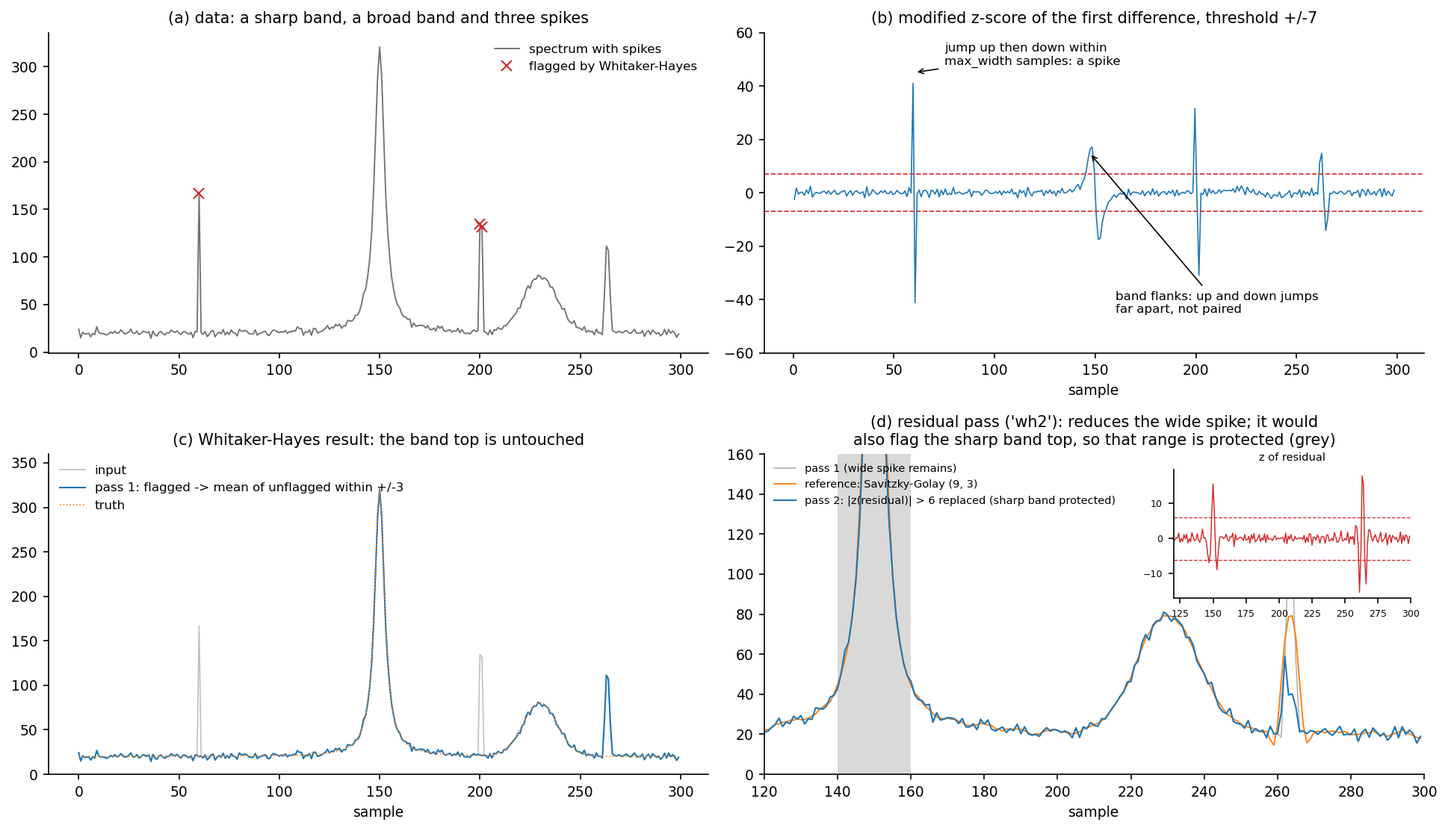
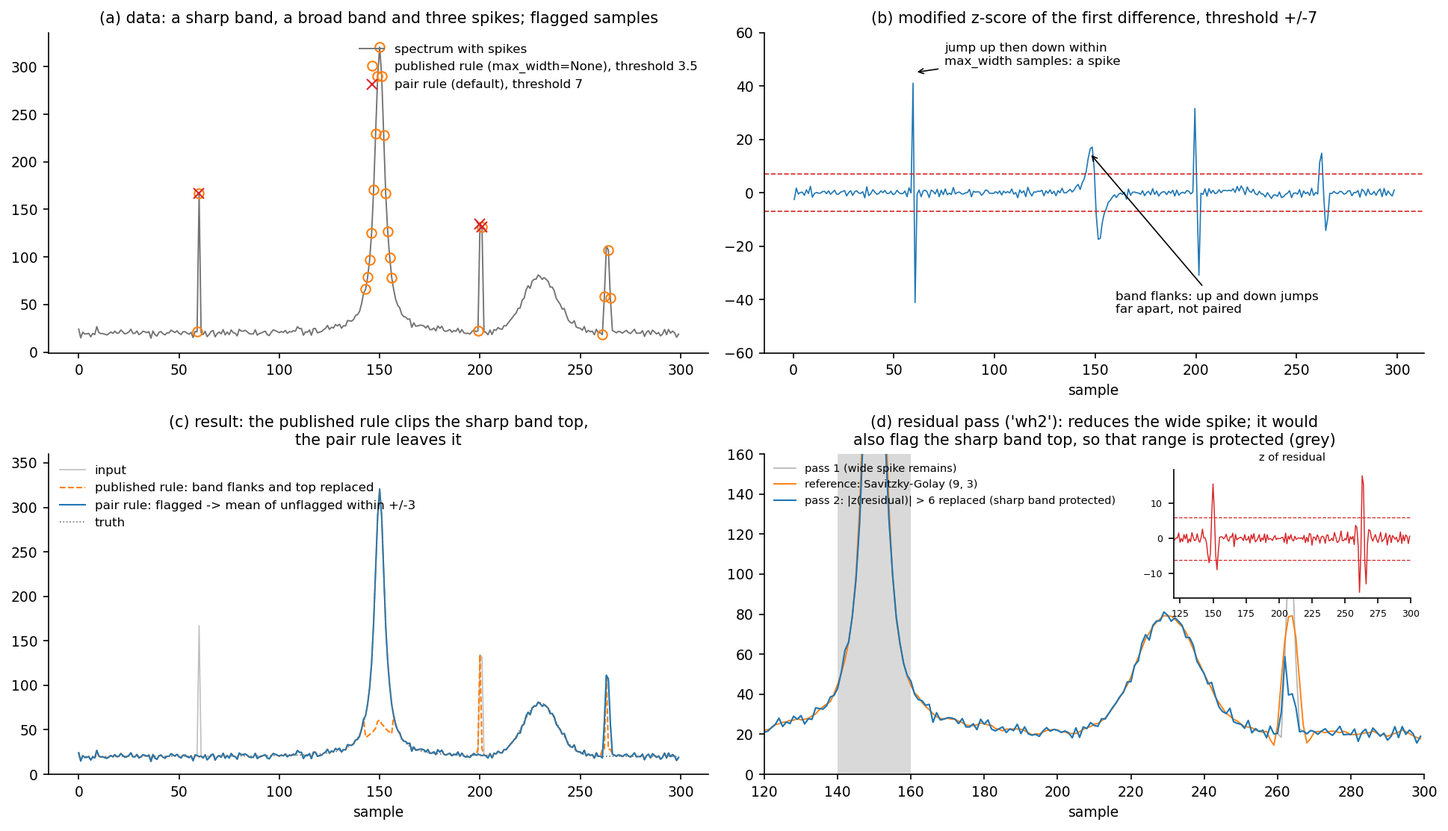
Whitaker-Hayes: published detection rule as an option; Nanobase reader: original orientation by default
- wh_max_width=None (wh1_max_width for pass 1 of wh2, max_width=None in the functions) flags
  sample k of every difference with |z_k| > threshold, the published rule of the original code,
  with the neighbour-mean replacement from unflagged samples; the pair rule stays the default
- read_nanobase_csv defaults to swap_xy=True, negate_x=True as the original converter
- change table: the detection change is a design change; tests, despike figure and docs updated

diff --git a/src/hyper_spectral_process/preprocess/despike.py b/src/hyper_spectral_process/preprocess/despike.py
@@ -7,14 +7,16 @@ Three methods (pipeline ``despike.mode``):
 * ``"wh"`` (:func:`despike_whitaker_hayes`): Whitaker-Hayes detection on the
   modified z-score of the first difference (Whitaker & Hayes, Chemometr.
   Intell. Lab. Syst. 179, 82 (2018)); flagged samples are replaced by the
-  mean of their unflagged neighbours.
+  mean of their unflagged neighbours. By default a spike must be an isolated
+  pair of opposite jumps (``max_width``); ``max_width=None`` uses the
+  published rule (every large difference).
 * ``"wh2"`` (:func:`despike_two_pass`): ``"wh"`` followed by a residual
   z-score pass against a Savitzky-Golay reference (:func:`despike_residual`),
   which catches remnants of wide spikes.
 """
 from __future__ import annotations
 
-from typing import Sequence
+from typing import Optional, Sequence
 
 import numpy as np
 from scipy.signal import savgol_filter
@@ -55,11 +57,19 @@ def despike_simple(ssm: StandardSpectrumMap, threshold: float) -> StandardSpectr
 
 
 # ---------------------------------------------------------- Whitaker-Hayes
-def whitaker_hayes_mask(spectra: np.ndarray, threshold: float = 7.0, max_width: int = 2) -> np.ndarray:
+def whitaker_hayes_mask(spectra: np.ndarray, threshold: float = 7.0, max_width: Optional[int] = 2) -> np.ndarray:
     """Spike mask ``(N, M)`` from the Whitaker-Hayes test.
 
     The first differences ``d_k = y[k+1] - y[k]`` of every spectrum are scored
-    with the modified z-score. A spike is
+    with the modified z-score.
+
+    ``max_width=None`` is the published rule (Whitaker & Hayes 2018, and the
+    original code): sample ``k`` is flagged for every difference with
+    ``|z_k| > threshold``. Every large difference counts, so the flanks and
+    the top of a band sampled by few points are flagged too (more so at low
+    thresholds such as the original default 3.5).
+
+    With an integer ``max_width`` (the default) a spike is
 
     * a jump ``i`` with ``|z_i| > threshold``,
     * followed within ``max_width`` samples by a jump ``j`` of the opposite
@@ -76,13 +86,16 @@ def whitaker_hayes_mask(spectra: np.ndarray, threshold: float = 7.0, max_width: 
     first or last sample are not detected (the residual pass of ``"wh2"``
     catches wide spikes).
     """
-    if int(max_width) != max_width or max_width < 1:
-        raise ValueError(f"max_width must be a positive integer; got {max_width}")
+    if max_width is not None and (int(max_width) != max_width or max_width < 1):
+        raise ValueError(f"max_width must be None or a positive integer; got {max_width}")
     if not threshold > 0:
         raise ValueError(f"threshold must be positive; got {threshold}")
     spectra = np.atleast_2d(spectra)
     z = modified_zscore(np.diff(spectra, axis=1))
     mask = np.zeros(spectra.shape, dtype=bool)
+    if max_width is None:
+        mask[:, :-1] = np.abs(z) > threshold
+        return mask
     n_diff = z.shape[1]
     for r, i in zip(*np.nonzero(np.abs(z) > threshold)):
         if i > 0 and abs(z[r, i - 1]) > threshold:
@@ -115,8 +128,9 @@ def _replace_by_neighbour_mean(y: np.ndarray, flagged: np.ndarray, m: int,
     return out
 
 
-def despike_whitaker_hayes(ssm: StandardSpectrumMap, threshold: float = 7.0, m: int = 3, *, max_width: int = 2,
-                           protect: Sequence[tuple[float, float]] = ()) -> StandardSpectrumMap:
+def despike_whitaker_hayes(ssm: StandardSpectrumMap, threshold: float = 7.0, m: int = 3, *,
+                           max_width: Optional[int] = 2, protect: Sequence[tuple[float, float]] = ()
+                           ) -> StandardSpectrumMap:
     """Whitaker-Hayes despiking.
 
     Parameters
@@ -124,7 +138,8 @@ def despike_whitaker_hayes(ssm: StandardSpectrumMap, threshold: float = 7.0, m: 
     threshold : modified z-score of the first difference above which a jump counts.
     m : flagged samples are replaced by the mean of the unflagged samples
         within ``+/- m`` samples.
-    max_width : widest spike (in samples) that is detected; see :func:`whitaker_hayes_mask`.
+    max_width : widest spike (in samples) that is detected by the pair rule, or
+        ``None`` for the published rule; see :func:`whitaker_hayes_mask`.
     protect : axis ranges ``(lo, hi)`` that are never modified (for known
         strong, narrow bands whose top would look like a spike). Empty by default.
     """
@@ -173,7 +188,8 @@ def despike_residual(ssm: StandardSpectrumMap, ref_window: int = 9, ref_polyorde
     return ssm.replace(spectra=out)
 
 
-def despike_two_pass(ssm: StandardSpectrumMap, *, wh_threshold: float = 7.0, wh_m: int = 3, wh_max_width: int = 2,
+def despike_two_pass(ssm: StandardSpectrumMap, *, wh_threshold: float = 7.0, wh_m: int = 3,
+                     wh_max_width: Optional[int] = 2,
                      ref_window: int = 9, ref_polyorder: int = 3, resid_threshold: float = 6.0, resid_m: int = 2,
                      resid_replace: str = "ref", protect: Sequence[tuple[float, float]] = ()
                      ) -> tuple[StandardSpectrumMap, StandardSpectrumMap, np.ndarray]:

diff --git a/docs/figures/make_despike.py b/docs/figures/make_despike.py
@@ -17,6 +17,8 @@ class AppConfig:
     dpi: int = 150
     threshold: float = 7.0
     m: int = 3
+    published_threshold: float = 3.5      # original pipeline default
+    published_m: int = 8
     seed: int = 3
 
 
@@ -32,6 +34,9 @@ def main(cfg: AppConfig) -> None:
     z = modified_zscore(np.diff(y)[None, :])[0]
     mask = whitaker_hayes_mask(y[None, :], cfg.threshold, 2)[0]
     wh = despike_whitaker_hayes(m, cfg.threshold, cfg.m).spectra[0]
+    # the published rule (max_width=None) with the original pipeline defaults (threshold 3.5, m 8)
+    mask_pub = whitaker_hayes_mask(y[None, :], cfg.published_threshold, None)[0]
+    wh_pub = despike_whitaker_hayes(m, cfg.published_threshold, cfg.published_m, max_width=None).spectra[0]
     ref = residual_reference(m.replace(spectra=wh[None, :]), 9, 3)[0]
     res = despike_residual(m.replace(spectra=wh[None, :]), 9, 3, 6.0, m=3, replace="mean",
                            protect=[(140.0, 160.0)]).spectra[0]
@@ -40,9 +45,11 @@ def main(cfg: AppConfig) -> None:
     fig, axes = plt.subplots(2, 2, figsize=(13, 7.5))
     ax = axes[0, 0]
     ax.plot(x, y, color=GREY, lw=0.9, label="spectrum with spikes")
-    ax.plot(x[mask], y[mask], "x", color=RED, ms=7, label="flagged by Whitaker-Hayes")
-    ax.set_title("(a) data: a sharp band, a broad band and three spikes")
-    ax.legend()
+    ax.plot(x[mask_pub], y[mask_pub], "o", mfc="none", color=ORANGE, ms=6,
+            label=f"published rule (max_width=None), threshold {cfg.published_threshold:g}")
+    ax.plot(x[mask], y[mask], "x", color=RED, ms=7, label=f"pair rule (default), threshold {cfg.threshold:g}")
+    ax.set_title("(a) data: a sharp band, a broad band and three spikes; flagged samples")
+    ax.legend(loc="upper right")
     ax = axes[0, 1]
     ax.plot(x[:-1] + 0.5, z, color=BLUE, lw=0.8)
     for s in (1, -1):
@@ -56,10 +63,11 @@ def main(cfg: AppConfig) -> None:
     ax.set_xlabel("sample")
     ax = axes[1, 0]
     ax.plot(x, y, color="0.75", lw=0.8, label="input")
-    ax.plot(x, wh, color=BLUE, lw=1.0, label=f"pass 1: flagged -> mean of unflagged within +/-{cfg.m}")
-    ax.plot(x, clean, color=ORANGE, lw=0.8, ls=":", label="truth")
+    ax.plot(x, wh_pub, color=ORANGE, lw=1.0, ls="--", label="published rule: band flanks and top replaced")
+    ax.plot(x, wh, color=BLUE, lw=1.0, label=f"pair rule: flagged -> mean of unflagged within +/-{cfg.m}")
+    ax.plot(x, clean, color=GREY, lw=0.8, ls=":", label="truth")
     ax.set_ylim(0, 360)
-    ax.set_title("(c) Whitaker-Hayes result: the band top is untouched")
+    ax.set_title("(c) result: the published rule clips the sharp band top,\nthe pair rule leaves it")
     ax.legend(loc="upper left")
     ax = axes[1, 1]
     ax.plot(x, wh, color="0.7", lw=0.8, label="pass 1 (wide spike remains)")

diff --git a/tests/test_preprocess.py b/tests/test_preprocess.py
@@ -62,6 +62,28 @@ def test_whitaker_hayes_flags_spike_not_band_flank():
     assert np.all(out[~mask] == y[~mask])
 
 
+def test_whitaker_hayes_published_rule_option():
+    from hyper_spectral_process.preprocess._common import modified_zscore
+    x = np.arange(300.0)
+    y = 20 + 300 / (1 + 4 * ((x - 150) / 6.0) ** 2) + np.random.default_rng(3).normal(0, 2.0, x.size)
+    y[60] += 150
+    y[200:202] += 110
+    thr = 3.5                                         # the original pipeline default
+    z = modified_zscore(np.diff(y)[None, :])[0]
+    original = np.flatnonzero(np.abs(z) > thr)        # original rule: sample i of every large difference i
+    mask = whitaker_hayes_mask(y[None, :], threshold=thr, max_width=None)[0]
+    assert np.flatnonzero(mask).tolist() == original.tolist()
+    assert mask[145:156].any() and not whitaker_hayes_mask(y[None, :], thr, max_width=2)[0][145:156].any()
+    out = despike_whitaker_hayes(one(y, x), thr, 8, max_width=None).spectra[0]
+    for k in original:                                # replaced by the mean of the unflagged samples within +/-8
+        lo, hi = max(0, k - 8), min(y.size, k + 9)
+        assert out[k] == pytest.approx(y[lo:hi][~mask[lo:hi]].mean())
+    res = run_pipeline(one(y, x), PreprocessConfig(stage_order=("despike",), derivative=DerivativeParams(orders=()),
+                                                  despike=DespikeParams(mode="wh2", wh1_threshold=thr,
+                                                                        wh1_max_width=None)))
+    np.testing.assert_allclose(res.stages["spike1"].spectra[0], out)
+
+
 def test_whitaker_hayes_keeps_sharp_strong_band_top():
     x = np.arange(300.0)
     y = 20 + 300 / (1 + 4 * ((x - 150) / 6.0) ** 2) + np.random.default_rng(3).normal(0, 2.0, x.size)

diff --git a/src/hyper_spectral_process/io/nanobase.py b/src/hyper_spectral_process/io/nanobase.py
@@ -17,7 +17,7 @@ _INDEX_COLUMNS = ("Z", "XINDEX", "YINDEX", "ZINDEX")
 
 
 def read_nanobase_csv(path: str | Path, unit: str = "cm^-1", *, x_column: str = "X", y_column: str = "Y",
-                      swap_xy: bool = False, negate_x: bool = False, negate_y: bool = False) -> StandardSpectrumMap:
+                      swap_xy: bool = True, negate_x: bool = True, negate_y: bool = False) -> StandardSpectrumMap:
     """Read a Nanobase mapping CSV.
 
     Parameters
@@ -26,10 +26,10 @@ def read_nanobase_csv(path: str | Path, unit: str = "cm^-1", *, x_column: str = 
     unit : axis unit stored in the returned map.
     x_column, y_column : header names of the stage coordinates.
     swap_xy, negate_x, negate_y : orientation corrections applied to the
-        coordinates after reading (swap first, then negate). The default
-        returns the coordinates exactly as stored. The original converter
-        applied ``swap_xy=True, negate_x=True`` for the instrument it was
-        written for.
+        coordinates after reading (swap first, then negate). The defaults
+        (``swap_xy=True, negate_x=True``) are those of the original converter,
+        which makes images of its instrument appear in the right orientation;
+        ``swap_xy=False, negate_x=False`` returns the coordinates as stored.
 
     Columns whose header parses as a number form the spectral axis. Every
     cell must be numeric; empty cells raise ``ValueError``.

diff --git a/tests/test_io.py b/tests/test_io.py
@@ -73,11 +73,11 @@ def test_nanobase_csv(tmp_path):
     text = ("FILETYPE=RAMAN SPECTRUM (MAPPING)\nAXISDATA=\nX,Y,Z,XINDEX,YINDEX,ZINDEX,300.0,301.0,302.0\n"
             "-1,2,0,0,0,0,5,6,7\n1,2,0,1,0,0,8,9,10\n")
     (tmp_path / "n.csv").write_text(text)
-    m = read_nanobase_csv(tmp_path / "n.csv")
+    m = read_nanobase_csv(tmp_path / "n.csv")              # default: the original orientation (swap, negate x)
     np.testing.assert_array_equal(m.axis, [300, 301, 302])
-    np.testing.assert_array_equal(m.xy, [[-1, 2], [1, 2]])
-    m2 = read_nanobase_csv(tmp_path / "n.csv", swap_xy=True, negate_x=True)
-    np.testing.assert_array_equal(m2.xy, [[-2, -1], [-2, 1]])
+    np.testing.assert_array_equal(m.xy, [[-2, -1], [-2, 1]])
+    raw = read_nanobase_csv(tmp_path / "n.csv", swap_xy=False, negate_x=False)
+    np.testing.assert_array_equal(raw.xy, [[-1, 2], [1, 2]])
 
 
 def test_ntmdt(tmp_path):

diff --git a/src/hyper_spectral_process/preprocess/config.py b/src/hyper_spectral_process/preprocess/config.py
@@ -34,9 +34,10 @@ class DespikeParams:
     sf_threshold: float = 40.0          # simple: jump threshold in data units
     wh_threshold: float = 3.5           # wh: modified z-score threshold
     wh_m: int = 8                       # wh: neighbour half-width for the replacement
-    wh_max_width: int = 2               # wh/wh2: widest detected spike (samples)
+    wh_max_width: Optional[int] = 2     # wh: widest spike of the pair rule; None = published rule
     wh1_threshold: float = 3.5          # wh2 pass 1
     wh1_m: int = 8
+    wh1_max_width: Optional[int] = 2    # wh2 pass 1: as wh_max_width
     resid_ref_window: int = 7           # wh2 pass 2: Savitzky-Golay reference
     resid_ref_polyorder: int = 3
     resid_threshold: float = 5.0

diff --git a/src/hyper_spectral_process/preprocess/pipeline.py b/src/hyper_spectral_process/preprocess/pipeline.py
@@ -132,7 +132,7 @@ def run_pipeline(ssm: StandardSpectrumMap, cfg: PreprocessConfig, *, splits: Opt
                 keep("spike", cur)
             else:
                 p1, cur, res.despike_reference = despike_two_pass(
-                    cur, wh_threshold=d.wh1_threshold, wh_m=d.wh1_m, wh_max_width=d.wh_max_width,
+                    cur, wh_threshold=d.wh1_threshold, wh_m=d.wh1_m, wh_max_width=d.wh1_max_width,
                     ref_window=d.resid_ref_window, ref_polyorder=d.resid_ref_polyorder,
                     resid_threshold=d.resid_threshold, resid_m=d.resid_m, resid_replace=d.resid_replace,
                     protect=d.protect)

diff --git a/examples/01_convert_instrument_files.py b/examples/01_convert_instrument_files.py
@@ -30,6 +30,7 @@ class AppConfig:
 
 
 CONFIG = AppConfig()
+# read_nanobase_csv applies the original orientation by default (x and y swapped, then x negated)
 READERS = {"horiba": read_horiba_txt, "nanobase": read_nanobase_csv, "ntmdt": read_ntmdt_txt}
 
 

diff --git a/docs/api.md b/docs/api.md
@@ -28,7 +28,7 @@ HORIBA LabSpec map exports (wide text table).
 
 Nanobase mapping CSV exports.
 
-- `read_nanobase_csv(path: str | Path, unit: str = 'cm^-1', *, x_column: str = 'X', y_column: str = 'Y', swap_xy: bool = False, negate_x: bool = False, negate_y: bool = False) -> StandardSpectrumMap`: Read a Nanobase mapping CSV.
+- `read_nanobase_csv(path: str | Path, unit: str = 'cm^-1', *, x_column: str = 'X', y_column: str = 'Y', swap_xy: bool = True, negate_x: bool = True, negate_y: bool = False) -> StandardSpectrumMap`: Read a Nanobase mapping CSV.
 
 ## `hyper_spectral_process.io.ntmdt`
 
@@ -59,7 +59,7 @@ Conversions between wavelength, photon energy and Raman shift axes.
 Configuration of the stage-ordered preprocessing pipeline and its validation.
 
 - **class `RoiParams(xmin: Optional[float] = 250.0, xmax: Optional[float] = 3200.0, round_decimals: Optional[int] = None) -> None`**: ``roi``: keep ``xmin <= axis <= xmax`` (:func:`~.roi.crop_roi`).
-- **class `DespikeParams(mode: str = 'none', sf_threshold: float = 40.0, wh_threshold: float = 3.5, wh_m: int = 8, wh_max_width: int = 2, wh1_threshold: float = 3.5, wh1_m: int = 8, resid_ref_window: int = 7, resid_ref_polyorder: int = 3, resid_threshold: float = 5.0, resid_m: int = 2, resid_replace: str = 'ref', protect: tuple = ()) -> None`**: ``despike`` (:mod:`.despike`). ``mode`` selects which group of parameters is used.
+- **class `DespikeParams(mode: str = 'none', sf_threshold: float = 40.0, wh_threshold: float = 3.5, wh_m: int = 8, wh_max_width: Optional[int] = 2, wh1_threshold: float = 3.5, wh1_m: int = 8, wh1_max_width: Optional[int] = 2, resid_ref_window: int = 7, resid_ref_polyorder: int = 3, resid_threshold: float = 5.0, resid_m: int = 2, resid_replace: str = 'ref', protect: tuple = ()) -> None`**: ``despike`` (:mod:`.despike`). ``mode`` selects which group of parameters is used.
 - **class `SmoothParams(window: int = 7, polyorder: int = 3, mode: str = 'interp', strength: int = 2) -> None`**: ``smooth`` / ``smooth2nd`` (:func:`~.smooth.smooth_savgol`).
 - **class `NormalizeParams(mode: str = 'instance', round_decimals: Optional[int] = 3, peak_window: Optional[tuple] = None, peak_refine: int = 2) -> None`**: ``normalize`` (:func:`~.normalize.normalize`).
 - **class `BaselineParams(mode: str = 'none', minline_window: int = 500, minline_step: int = 150, ps_window_min: int = 121, ps_window_max: int = 1111, ps_polyorder: int = 0, protect_peaks: Optional[tuple] = None, protect_half_width: float = 15.0, clip_negative: bool = False, anchors: tuple = (), anchor_degree: Optional[int] = 1, anchor_reference: Optional[tuple] = None) -> None`**: ``baseline`` (:func:`~.baseline.subtract_baseline`).
@@ -70,7 +70,7 @@ Configuration of the stage-ordered preprocessing pipeline and its validation.
 - **class `AugmentationParams(splits: tuple = ('train', 'valid', 'test'), max_new_per_split: Mapping[str, int] = <factory>, mixup_min_sources: int = 2, mixup_max_sources: int = 4, mixup_alpha_range: tuple = (0.35, 0.65), noise_mode: str = 'white', lowpass_sigma_points: float = 4.0, lowpass_kernel_radius: Optional[int] = None, lowpass_pad_mode: str = 'reflect', noise_std: float = 0.005) -> None`**: ``augmentation``: mixup and noise per split (:func:`~.augmentation.mixup`).
 - **class `QAParams(enable: bool = True, trace_enable: bool = True, trace_mode: str = 'random', trace_n: int = 9, trace_seed: int = 42, trace_idxs: Optional[tuple] = None, aug_mixup_n: int = 9, tsne_enable: bool = True, tsne_stage_keys: Optional[tuple] = None, tsne_perplexity: tuple = (5, 10, 20), tsne_max_iter: int = 1000, tsne_random_state: int = 123, tsne_n_jobs: int = 1, tsne_thread_limit: int = 1, tsne_max_cols: int = 5, tsne_point_size: float = 7.0, tsne_alpha: float = 0.62, dpi: int = 150) -> None`**: Quality-assurance images written by :func:`~.runner.run_preprocess`.
 - **class `OutputParams(allow_existing_run_dir: bool = False, save_processed_npz: bool = True, include_source_variant: bool = False, save_noaug_reference_npz: bool = False) -> None`**: What :func:`~.runner.run_preprocess` writes.
-- **class `PreprocessConfig(stage_order: tuple, roi: RoiParams = RoiParams(xmin=250.0, xmax=3200.0, round_decimals=None), despike: DespikeParams = DespikeParams(mode='none', sf_threshold=40.0, wh_threshold=3.5, wh_m=8, wh_max_width=2, wh1_threshold=3.5, wh1_m=8, resid_ref_window=7, resid_ref_polyorder=3, resid_threshold=5.0, resid_m=2, resid_replace='ref', protect=()), smooth: SmoothParams = SmoothParams(window=7, polyorder=3, mode='interp', strength=2), smooth2nd: SmoothParams = SmoothParams(window=5, polyorder=3, mode='interp', strength=1), normalize: NormalizeParams = NormalizeParams(mode='instance', round_decimals=3, peak_window=None, peak_refine=2), baseline: BaselineParams = BaselineParams(mode='none', minline_window=500, minline_step=150, ps_window_min=121, ps_window_max=1111, ps_polyorder=0, protect_peaks=None, protect_half_width=15.0, clip_negative=False, anchors=(), anchor_degree=1, anchor_reference=None), interp: InterpParams = InterpParams(step=2.0, round_decimals=None), derivative: DerivativeParams = DerivativeParams(orders=(1, 2), window=11, polyorder=3, use_axis_delta=True, delta_override=1.0, pre_smooth=SmoothBlock(enable=False, strength=0, window=11, polyorder=3), post_smooth={1: SmoothBlock(enable=True, strength=2, window=13, polyorder=3), 2: SmoothBlock(enable=True, strength=2, window=13, polyorder=3)}, post_smooth_default=SmoothBlock(enable=False, strength=0, window=9, polyorder=2)), split: SplitParams = SplitParams(enable=False, train=0.6, valid=0.2, test=0.2, file_tags={'train': trainset, 'test': testset, 'valid': valset}), augmentation: AugmentationParams = AugmentationParams(splits=('train', 'valid', 'test'), max_new_per_split={'train': 300, 'test': 100, 'valid': 100, 'all': 500}, mixup_min_sources=2, mixup_max_sources=4, mixup_alpha_range=(0.35, 0.65), noise_mode='white', lowpass_sigma_points=4.0, lowpass_kernel_radius=None, lowpass_pad_mode='reflect', noise_std=0.005), qa: QAParams = QAParams(enable=True, trace_enable=True, trace_mode='random', trace_n=9, trace_seed=42, trace_idxs=None, aug_mixup_n=9, tsne_enable=True, tsne_stage_keys=None, tsne_perplexity=(5, 10, 20), tsne_max_iter=1000, tsne_random_state=123, tsne_n_jobs=1, tsne_thread_limit=1, tsne_max_cols=5, tsne_point_size=7.0, tsne_alpha=0.62, dpi=150), output: OutputParams = OutputParams(allow_existing_run_dir=False, save_processed_npz=True, include_source_variant=False, save_noaug_reference_npz=False), random_seed: int = 123) -> None`**: Complete preprocessing configuration.
+- **class `PreprocessConfig(stage_order: tuple, roi: RoiParams = RoiParams(xmin=250.0, xmax=3200.0, round_decimals=None), despike: DespikeParams = DespikeParams(mode='none', sf_threshold=40.0, wh_threshold=3.5, wh_m=8, wh_max_width=2, wh1_threshold=3.5, wh1_m=8, wh1_max_width=2, resid_ref_window=7, resid_ref_polyorder=3, resid_threshold=5.0, resid_m=2, resid_replace='ref', protect=()), smooth: SmoothParams = SmoothParams(window=7, polyorder=3, mode='interp', strength=2), smooth2nd: SmoothParams = SmoothParams(window=5, polyorder=3, mode='interp', strength=1), normalize: NormalizeParams = NormalizeParams(mode='instance', round_decimals=3, peak_window=None, peak_refine=2), baseline: BaselineParams = BaselineParams(mode='none', minline_window=500, minline_step=150, ps_window_min=121, ps_window_max=1111, ps_polyorder=0, protect_peaks=None, protect_half_width=15.0, clip_negative=False, anchors=(), anchor_degree=1, anchor_reference=None), interp: InterpParams = InterpParams(step=2.0, round_decimals=None), derivative: DerivativeParams = DerivativeParams(orders=(1, 2), window=11, polyorder=3, use_axis_delta=True, delta_override=1.0, pre_smooth=SmoothBlock(enable=False, strength=0, window=11, polyorder=3), post_smooth={1: SmoothBlock(enable=True, strength=2, window=13, polyorder=3), 2: SmoothBlock(enable=True, strength=2, window=13, polyorder=3)}, post_smooth_default=SmoothBlock(enable=False, strength=0, window=9, polyorder=2)), split: SplitParams = SplitParams(enable=False, train=0.6, valid=0.2, test=0.2, file_tags={'train': trainset, 'test': testset, 'valid': valset}), augmentation: AugmentationParams = AugmentationParams(splits=('train', 'valid', 'test'), max_new_per_split={'train': 300, 'test': 100, 'valid': 100, 'all': 500}, mixup_min_sources=2, mixup_max_sources=4, mixup_alpha_range=(0.35, 0.65), noise_mode='white', lowpass_sigma_points=4.0, lowpass_kernel_radius=None, lowpass_pad_mode='reflect', noise_std=0.005), qa: QAParams = QAParams(enable=True, trace_enable=True, trace_mode='random', trace_n=9, trace_seed=42, trace_idxs=None, aug_mixup_n=9, tsne_enable=True, tsne_stage_keys=None, tsne_perplexity=(5, 10, 20), tsne_max_iter=1000, tsne_random_state=123, tsne_n_jobs=1, tsne_thread_limit=1, tsne_max_cols=5, tsne_point_size=7.0, tsne_alpha=0.62, dpi=150), output: OutputParams = OutputParams(allow_existing_run_dir=False, save_processed_npz=True, include_source_variant=False, save_noaug_reference_npz=False), random_seed: int = 123) -> None`**: Complete preprocessing configuration.
     - `to_dict(self) -> dict`: Plain-data snapshot (for the run's ``run_config_snapshot.json``).
 - `validate_config(cfg: PreprocessConfig) -> None`: Raise ``ValueError`` for an inconsistent configuration.
 
@@ -100,11 +100,11 @@ ROI stage: keep a range of the spectral axis without resampling.
 Despike stage: remove cosmic-ray spikes.
 
 - `despike_simple(ssm: StandardSpectrumMap, threshold: float) -> StandardSpectrumMap`: Replace jumps larger than ``threshold`` (data units) by linear interpolation.
-- `whitaker_hayes_mask(spectra: np.ndarray, threshold: float = 7.0, max_width: int = 2) -> np.ndarray`: Spike mask ``(N, M)`` from the Whitaker-Hayes test.
-- `despike_whitaker_hayes(ssm: StandardSpectrumMap, threshold: float = 7.0, m: int = 3, *, max_width: int = 2, protect: Sequence[tuple[float, float]] = ()) -> StandardSpectrumMap`: Whitaker-Hayes despiking.
+- `whitaker_hayes_mask(spectra: np.ndarray, threshold: float = 7.0, max_width: Optional[int] = 2) -> np.ndarray`: Spike mask ``(N, M)`` from the Whitaker-Hayes test.
+- `despike_whitaker_hayes(ssm: StandardSpectrumMap, threshold: float = 7.0, m: int = 3, *, max_width: Optional[int] = 2, protect: Sequence[tuple[float, float]] = ()) -> StandardSpectrumMap`: Whitaker-Hayes despiking.
 - `residual_reference(ssm: StandardSpectrumMap, window: int = 9, polyorder: int = 3) -> np.ndarray`: Savitzky-Golay reference curve ``(N, M)`` of the residual despike pass.
 - `despike_residual(ssm: StandardSpectrumMap, ref_window: int = 9, ref_polyorder: int = 3, threshold: float = 6.0, m: int = 2, replace: str = 'ref', protect: Sequence[tuple[float, float]] = ()) -> StandardSpectrumMap`: Residual z-score despiking.
-- `despike_two_pass(ssm: StandardSpectrumMap, *, wh_threshold: float = 7.0, wh_m: int = 3, wh_max_width: int = 2, ref_window: int = 9, ref_polyorder: int = 3, resid_threshold: float = 6.0, resid_m: int = 2, resid_replace: str = 'ref', protect: Sequence[tuple[float, float]] = ()) -> tuple[StandardSpectrumMap, StandardSpectrumMap, np.ndarray]`: Whitaker-Hayes pass followed by the residual pass.
+- `despike_two_pass(ssm: StandardSpectrumMap, *, wh_threshold: float = 7.0, wh_m: int = 3, wh_max_width: Optional[int] = 2, ref_window: int = 9, ref_polyorder: int = 3, resid_threshold: float = 6.0, resid_m: int = 2, resid_replace: str = 'ref', protect: Sequence[tuple[float, float]] = ()) -> tuple[StandardSpectrumMap, StandardSpectrumMap, np.ndarray]`: Whitaker-Hayes pass followed by the residual pass.
 
 ## `hyper_spectral_process.preprocess.smooth`
 

diff --git a/docs/changes_from_original.md b/docs/changes_from_original.md
@@ -23,7 +23,7 @@ that names the offending value.
 | 2 | container | every stage sorted the axis and merged duplicate values | the axis must be strictly increasing; `from_unsorted` sorts and merges duplicates (mean) once, the readers use it | design change | same result, done once at the boundary |
 | 3 | HORIBA reader | header accepted with >= 80 % numeric cells; rows with < 3 numbers skipped; ragged rows NaN-padded | header must be numeric; every row must have exactly `M + 2` numbers | design change | silent skipping and padding hid malformed files |
 | 4 | HORIBA reader | fallback to a "2-line pair" layout with an index axis 0..M-1 when the header was not numeric; the stand-alone converter also replaced a mismatching axis by an index axis | fallbacks removed (intentionally dropped) | design change | a file in an unexpected layout must fail, not be guessed |
-| 5 | Nanobase reader | coordinates swapped and x negated by default (`SWAP_COORD`, `NEGATE_X`), spectra arranged through `XINDEX`/`YINDEX` and flattened in a frame order; missing pixels and empty cells became NaN or were skipped; index axis when no numeric header | coordinates as stored, `swap_xy`/`negate_x`/`negate_y` options; row order irrelevant (coordinates place the rows); empty cells and missing axis raise | design change | instrument-specific orientation as an explicit option; no silent NaN |
+| 5 | Nanobase reader | coordinates swapped and x negated (`SWAP_COORD=True`, `NEGATE_X_COORD=True`, constants at the top of the converter), spectra arranged through `XINDEX`/`YINDEX` and flattened in a frame order; missing pixels and empty cells became NaN or were skipped; index axis when no numeric header | the same default orientation as explicit options (`swap_xy=True`, `negate_x=True`, `negate_y=False`; `False` returns the stored coordinates); row order irrelevant (coordinates place the rows); empty cells and a missing numeric axis raise | design change | same images by default; orientation visible in the call; no silent NaN |
 | 6 | Andor SIF reader | frames were always reshaped as x-fastest; `FRAME_ORDER="XY"` and `FLIP_X_ORDER` only reordered the output rows, so the frame-to-coordinate assignment never changed | `frame_order="x_fast"`/`"y_fast"` sets the assignment; reversed coordinate arrays replace `FLIP_X_ORDER` | **bug fix** | the options had no effect on the map |
 | 7 | Andor SIF reader | `sifreader` backend; 2-D frames flattened into one spectrum | `sif_parser` only; frames must be `(1, M)` | design change | one backend; flattening an image into a spectrum is not meaningful |
 | 8 | HORIBA writer | `FLIP_X_ORDER`, `NEGATE_X/Y`, nearest-value grid matching | raster order `x_fast`/`y_fast`; change coordinates with `ssm.replace(xy=...)` | design change | fewer options, exact grid |
@@ -44,9 +44,9 @@ that names the offending value.
 | 18 | smoothing | `strength <= 0` still smoothed once | `strength >= 1` required | design change | as above |
 | 19 | ROI | `xmin > xmax` swapped | raises | design change | probable typo |
 | 20 | despike `simple` | the samples of a run of large differences were the *difference* indices `start .. end` (one clean sample before the spike was overwritten; a spike on the second sample was skipped); `linspace(y[s-1], y[e+1], num=n)` wrote the neighbour values into the first and last replaced samples; exceptions printed and ignored; threshold <= 0 was a silent no-op | the samples between the first and last jump, `start+1 .. end`, are replaced by the interior points of the line from `y[start]` to `y[end+1]`; errors propagate; threshold must be positive | **bug fix** | the documented linear interpolation of the spike samples only |
-| 21 | despike `wh` detection | every difference with `|z| > threshold` was a spike: the flanks and the tops of sharp bands were replaced (clipped) | a spike is a jump followed within `max_width` (new, default 2) samples by an opposite jump, with ordinary differences just outside the pair (the farthest closing jump that satisfies this); band flanks and sharp band tops are kept | **bug fix** | the clipping of sharp band tops |
-| 22 | despike `wh` replacement | the replaced sample was the difference index `i` (the sample *before* an upward jump, and the last sample of a spike); only `i`, `i+1` were excluded from the neighbour mean, so multi-sample spikes were averaged with spike samples | the flagged spike samples are replaced by the mean of the unflagged samples within `+/- m` | **bug fix** | the spike itself is replaced, from clean neighbours only |
-| 23 | despike `wh` | a spike on the first sample was replaced | first- and last-sample spikes are not detected (pair condition) | design change | consequence of #21 |
+| 21 | despike `wh` detection | the published Whitaker-Hayes rule: sample `i` of every difference with `|z_i| > threshold` is flagged; with few samples across a sharp band (and the original default threshold 3.5) its flanks and top are flagged and replaced, i.e. the band top is clipped | default: a spike is a jump followed within `max_width` (default 2) samples by an opposite jump, with ordinary differences just outside the pair (the farthest closing jump that satisfies this); the samples between the jumps are flagged, so band flanks and sharp band tops are kept. `wh_max_width=None` (and `wh1_max_width=None` for pass 1 of `wh2`, `max_width=None` in the functions) restores the published rule exactly, with the replacement of #22 | design change | the original is the published algorithm; the pair rule avoids clipping sharp bands and remains optional |
+| 22 | despike `wh` replacement | the flagged sample was replaced by the mean of its `+/- m` neighbours excluding only samples `i` and `i+1`, so other flagged samples (the rest of a multi-sample spike, the next flagged difference) entered the mean | the mean of the samples within `+/- m` that are not flagged (as in the published algorithm); with the pair rule the flagged samples are the spike samples | **bug fix** | spike values must not feed their own replacement |
+| 23 | despike `wh` | a spike on the first sample was replaced | with the default pair rule first- and last-sample spikes are not detected (`wh_max_width=None` keeps the published behaviour) | design change | consequence of #21 |
 | 24 | despike | (none) | `protect` ranges that are never modified (option, default empty) | design change | known strong narrow bands (e.g. Si 520 cm^-1) |
 | 25 | despike | MAD = 0 gave all-zero z-scores (nothing detected); residual pass silently skipped rows with M < 5 or a failing filter | raises | design change | silent no-ops |
 | 26 | despike `wh2` mean replacement | neighbour mean, reference value when no unflagged neighbour | unchanged | - | kept as designed |

diff --git a/docs/preprocessing.md b/docs/preprocessing.md
@@ -83,34 +83,46 @@ D. A. Whitaker and K. Hayes, Chemometr. Intell. Lab. Syst. 179, 82 (2018)).
 
 1. First differences `d_k = y[k+1] - y[k]` of every spectrum are scored with
    the modified z-score `z = 0.6745 (d - median(d)) / MAD(d)` (panel b).
-2. A spike is a jump `|z_i| > threshold` followed within `max_width` samples
-   by a jump of the opposite sign `|z_j| > threshold`, with ordinary
-   differences (`|z| <= threshold`) just outside the pair (the farthest such
-   `j` is taken). The samples between the two jumps are flagged (panel a).
-   Both upward and downward spikes are detected.
+2. Detection, two rules:
+   - **published rule** (`wh_max_width=None`; the algorithm of Whitaker and
+     Hayes and of the original code): sample `k` is flagged for every
+     difference with `|z_k| > threshold`.
+   - **pair rule** (default, `wh_max_width=2`): a spike is a jump
+     `|z_i| > threshold` followed within `max_width` samples by a jump of the
+     opposite sign `|z_j| > threshold`, with ordinary differences
+     (`|z| <= threshold`) just outside the pair (the farthest such `j` is
+     taken); the samples between the two jumps are flagged. Both upward and
+     downward spikes are detected.
 3. Every flagged sample is replaced by the mean of the unflagged samples
    within `+/- m` samples (panel c).
 
-The pair condition keeps band flanks from being flagged (a flank is a run of
-same-sign jumps); the isolation condition keeps the top of a sharp, strong
-band from being flagged (its flanks are themselves large jumps).
+The published rule flags every large difference, so a band that is sampled
+by only a few points has large differences on its flanks and around its top
+and is flagged there too; its top is then replaced by the mean of its
+neighbours, i.e. clipped (panel a, orange circles, at the original default
+threshold 3.5). The pair rule keeps band flanks (a flank is a run of
+same-sign jumps) and the top of a sharp, strong band (its flanks are
+themselves large jumps) from being flagged. Use the published rule to
+reproduce results of the original code or when the bands are broad compared
+with the sampling step.
 
 | parameter | meaning | pipeline default |
 |---|---|---|
 | `wh_threshold` | z-score above which a jump counts | 3.5 (function default 7.0) |
 | `wh_m` | half-width of the replacement neighbourhood | 8 (function default 3) |
-| `wh_max_width` | widest spike detected, samples | 2 |
+| `wh_max_width` | widest spike detected by the pair rule, samples; `None` = published rule | 2 |
 | `protect` | axis ranges never modified | `()` |
 
-Pitfalls: a spike wider than `max_width`, a spike on the steep flank of a
-sharp band and a spike on the first or last sample are not detected; a spike
+Pitfalls of the pair rule: a spike wider than `max_width`, a spike on the
+steep flank of a sharp band and a spike on the first or last sample are not
+detected; a spike
 followed within `max_width` samples by a real step larger than the
 threshold is flagged together with the clean sample before the step; a low
 threshold (3.5) flags noise in spectra with heavy-tailed noise; integer data
 with many zero differences have `MAD = 0`, which raises (smooth or bin first).
 
 **`"wh2"`: two passes** (`despike_two_pass`). Pass 1 is Whitaker-Hayes
-(`wh1_threshold`, `wh1_m`); pass 2 (`despike_residual`) smooths every
+(`wh1_threshold`, `wh1_m`, `wh1_max_width`); pass 2 (`despike_residual`) smooths every
 spectrum with a Savitzky-Golay filter (`resid_ref_window`,
 `resid_ref_polyorder`), scores the residual `y - reference` with the modified
 z-score and replaces samples with `|z| > resid_threshold` by the reference

diff --git a/docs/reading_instrument_files.md b/docs/reading_instrument_files.md
@@ -9,7 +9,7 @@ the axis unit; pass it as `unit`.
 |---|---|---|
 | `read_horiba_txt(path, unit="cm^-1")` | HORIBA LabSpec map export | first row: the `M` axis values (after two empty cells); every other row: `x  y  I_1 ... I_M`; tabs, spaces, commas or semicolons; `#` and `//` lines skipped |
 | `write_horiba_txt(ssm, path, frame_order="x_fast")` | the same layout, rows in raster order | needs a complete raster |
-| `read_nanobase_csv(path, unit, x_column="X", y_column="Y", swap_xy=False, negate_x=False, negate_y=False)` | Nanobase mapping CSV | metadata lines, an `AXISDATA=` marker, a header `X, Y, Z, XINDEX, YINDEX, ZINDEX, <axis...>`, one spectrum per row |
+| `read_nanobase_csv(path, unit, x_column="X", y_column="Y", swap_xy=True, negate_x=True, negate_y=False)` | Nanobase mapping CSV | metadata lines, an `AXISDATA=` marker, a header `X, Y, Z, XINDEX, YINDEX, ZINDEX, <axis...>`, one spectrum per row |
 | `read_ntmdt_txt(path, unit="nm", axis_atol=1e-6)` | NT-MDT export | every row `x, y, a_0, I_0, a_1, I_1, ...`; the axis repeated per row must agree within `axis_atol` |
 | `read_andor_sif(path, x_coords, y_coords, frame_order="x_fast", unit="nm")` | Andor Solis `.sif` kinetic series of full-vertical-binning frames | needs the optional package `sif_parser`; the wavelength calibration comes from the file |
 
@@ -23,10 +23,12 @@ xs, ys = symmetric_raster(12.0, 12.0, 120, 120)          # linspace(-12, 12, 120
 sif = read_andor_sif("scan.sif", xs, ys, frame_order="x_fast")
 ```
 
-**Coordinates.** Readers keep the coordinates as exported. Nanobase exports
-of some setups need a swap and/or a sign change to look right
-(`swap_xy`, `negate_x`, `negate_y`; the original converter applied
-`swap_xy=True, negate_x=True`). SIF files carry no coordinates: frame `k` is
+**Coordinates.** Readers keep the coordinates as exported, except the
+Nanobase reader, which by default applies the orientation of the original
+converter: x and y swapped, then x negated (`swap_xy=True, negate_x=True`),
+so that images of the instrument it was written for appear the right way
+round. Pass `swap_xy=False, negate_x=False` to get the stored coordinates.
+SIF files carry no coordinates: frame `k` is
 placed at `(x[k % nx], y[k // nx])` for `frame_order="x_fast"` (x changes
 fastest, i.e. y-major scanning) or `(x[k // ny], y[k % ny])` for `"y_fast"`
 (`frames_to_xy`); pass a reversed coordinate array for a scan that runs
